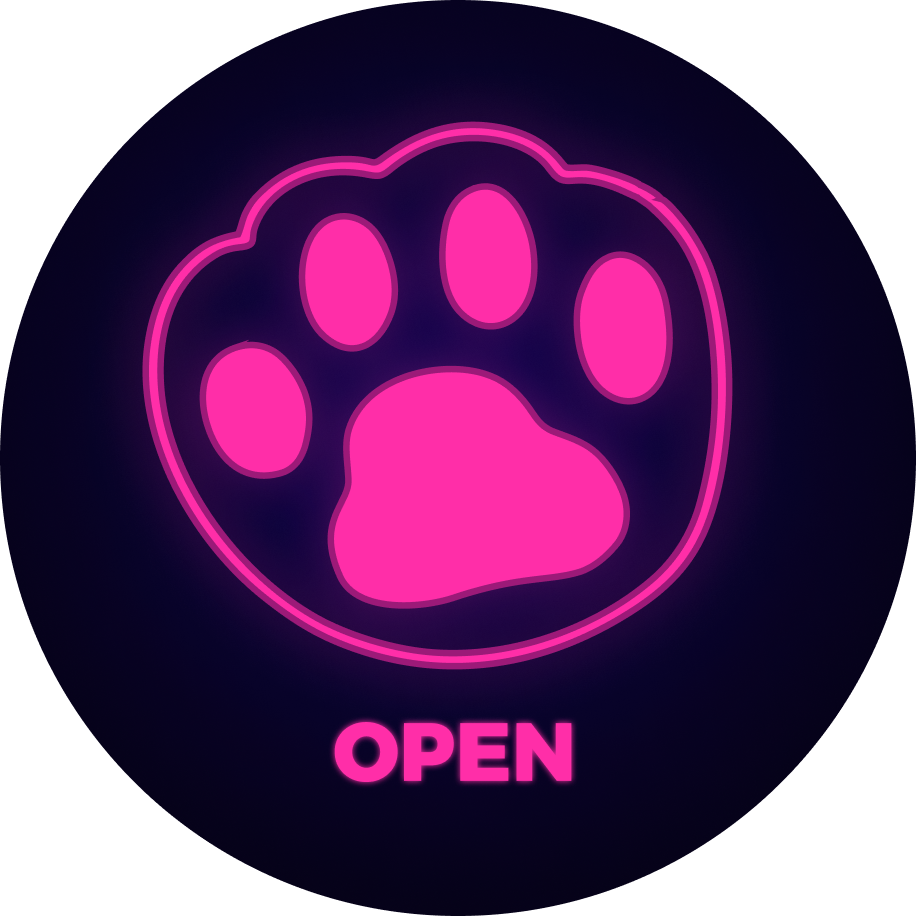
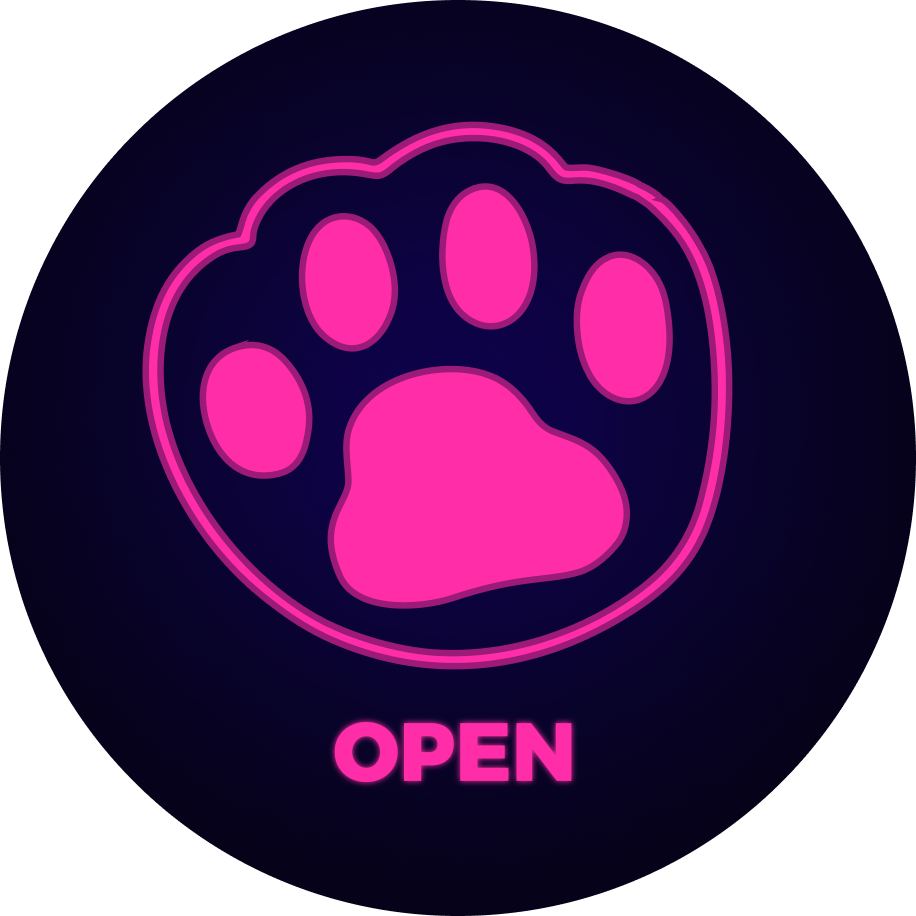
redesign button and responsiviness

Changed region(s): [[0.1528, 0.1834, 0.7031, 0.7031], [0.4891, 0.1834, 0.6725, 0.4279], [0.6725, 0.2445, 0.7948, 0.4279]]

diff --git a/pages/index.tsx b/pages/index.tsx
@@ -268,8 +268,8 @@ export default function Home() {
               <Image
                 src={AllGirls[girlNumberCount]?.destaque ? logoGold : logo}
                 alt=""
-                width={250}
-                height={100}
+                // width={200}
+                // height={200}
               />
             </div>
             <div
@@ -331,179 +331,58 @@ export default function Home() {
                     id="voltar"
                     className="w-full flex justify-start cursor-pointer"
                   >
-                    <Image
-                      onClick={() => {
-                        if (girlNumberCount === 0) {
-                          setGirlNumberCount(0);
-                        } else {
-                          let index = girlNumberCount - 1;
-                          setGirlNumberCount(index);
-                        }
-                      }}
-                      src={botaoVoltar}
-                      alt=""
-                      className="rounded-full drop-shadow-xl md:hidden"
-                      width={90}
-                      height={90}
-                    />
-
-                    <Image
-                      onClick={() => {
-                        if (girlNumberCount === 0) {
-                          setGirlNumberCount(0);
-                        } else {
-                          let index = girlNumberCount - 1;
-                          setGirlNumberCount(index);
-                        }
-                      }}
-                      src={botaoVoltar}
-                      alt=""
-                      className="rounded-full drop-shadow-xl hidden 2xl:block"
-                      width={100}
-                      height={100}
-                    />
-
-                    <Image
-                      onClick={() => {
-                        if (girlNumberCount === 0) {
-                          setGirlNumberCount(0);
-                        } else {
-                          let index = girlNumberCount - 1;
-                          setGirlNumberCount(index);
-                        }
-                      }}
-                      src={botaoVoltar}
-                      alt=""
-                      className="rounded-full drop-shadow-xl  hidden  lg:block 2xl:hidden"
-                      width={80}
-                      height={80}
-                    />
-
-                    <Image
-                      onClick={() => {
-                        if (girlNumberCount === 0) {
-                          setGirlNumberCount(0);
-                        } else {
-                          let index = girlNumberCount - 1;
-                          setGirlNumberCount(index);
-                        }
-                      }}
-                      src={botaoVoltar}
-                      alt=""
-                      className="rounded-full drop-shadow-xl  hidden  md:block lg:hidden 2xl:hidden"
-                      width={60}
-                      height={60}
-                    />
+                    <div className="relative w-24 h-24 md:w-14 md:h-14 lg:w-16 lg:h-16 xl:w-20 xl:h-20 2xl:w-28 2xl:h-28 px-5">
+                      <Image
+                        onClick={() => {
+                          if (girlNumberCount === 0) {
+                            setGirlNumberCount(0);
+                          } else {
+                            let index = girlNumberCount - 1;
+                            setGirlNumberCount(index);
+                          }
+                        }}
+                        src={botaoVoltar}
+                        alt=""
+                        className="rounded-full drop-shadow-xl "
+                        fill={true}
+                      />
+                    </div>
                   </div>
 
                   <div
                     onClick={() => handleCountClick()}
-                    className="z-20 -mt-10 sm:-mt-14 md:-mt-10 lg:-mt-14 xl:-mt-36 2xl:-mt-28 w-full flex justify-center cursor-pointer"
+                    className="z-20 -mt-10 sm:-mt-14 md:-mt-10 lg:-mt-14 xl:-mt-36 2xl:-mt-28 w-full flex justify-center items-center md:items-end cursor-pointer"
                   >
-                    {/* mobile button */}
-                    <Image
-                      src={botaoMatch}
-                      className="rounded-full drop-shadow-xl md:hidden"
-                      alt=""
-                      quality={100}
-                      width={200}
-                      height={110}
-                    />
-
-                    <Image
-                      src={botaoMatch}
-                      className="rounded-full drop-shadow-xl mt-5 hidden 2xl:block"
-                      alt=""
-                      quality={100}
-                      width={150}
-                      height={150}
-                    />
-
-                    <Image
-                      src={botaoMatch}
-                      className="rounded-full drop-shadow-xl mt-5 hidden lg:block 2xl:hidden"
-                      alt=""
-                      quality={100}
-                      width={100}
-                      height={100}
-                    />
-
-                    <Image
-                      src={botaoMatch}
-                      className="rounded-full drop-shadow-xl mt-5 hidden md:block lg:hidden 2xl:hidden"
-                      alt=""
-                      quality={100}
-                      width={90}
-                      height={90}
-                    />
+                    <div className="relative w-24 h-24 md:w-16 md:h-16 lg:w-20 lg:h-20 xl:w-32 xl:h-28 2xl:w-36 2xl:h-36 px-5">
+                      <Image
+                        src={botaoMatch}
+                        className="rounded-full drop-shadow-xl "
+                        alt=""
+                        quality={100}
+                        fill={true}
+                      />
+                    </div>
                   </div>
                   <div
                     id="x"
                     className="w-full flex justify-end cursor-pointer"
                   >
-                    <Image
-                      onClick={() => {
-                        if (girlNumberCount + 1 === AllGirls.length) {
-                          setGirlNumberCount(0);
-                        } else {
-                          let index = girlNumberCount + 1;
-                          setGirlNumberCount(index);
-                        }
-                      }}
-                      src={botaoX}
-                      alt=""
-                      className="rounded-full drop-shadow-xl md:hidden"
-                      width={90}
-                      height={90}
-                    />
-
-                    <Image
-                      onClick={() => {
-                        if (girlNumberCount + 1 === AllGirls.length) {
-                          setGirlNumberCount(0);
-                        } else {
-                          let index = girlNumberCount + 1;
-                          setGirlNumberCount(index);
-                        }
-                      }}
-                      src={botaoX}
-                      alt=""
-                      className="rounded-full drop-shadow-xl hidden 2xl:block"
-                      width={100}
-                      height={100}
-                    />
-
-                    <Image
-                      onClick={() => {
-                        if (girlNumberCount + 1 === AllGirls.length) {
-                          setGirlNumberCount(0);
-                        } else {
-                          let index = girlNumberCount + 1;
-                          setGirlNumberCount(index);
-                        }
-                      }}
-                      src={botaoX}
-                      alt=""
-                      className="rounded-full drop-shadow-xl  hidden  lg:block 2xl:hidden"
-                      width={80}
-                      height={80}
-                    />
-
-                    <Image
-                      onClick={() => {
-                        if (girlNumberCount + 1 === AllGirls.length) {
-                          setGirlNumberCount(0);
-                        } else {
-                          let index = girlNumberCount + 1;
-                          setGirlNumberCount(index);
-                        }
-                      }}
-                      src={botaoX}
-                      alt=""
-                      className="rounded-full drop-shadow-xl  hidden  md:block lg:hidden 2xl:hidden"
-                      width={60}
-                      height={60}
-                    />
+                    <div className="relative w-24 h-24 md:w-14 md:h-14 lg:w-16 lg:h-16 xl:w-20 xl:h-20 2xl:w-28 2xl:h-28 px-5">
+                      <Image
+                        onClick={() => {
+                          if (girlNumberCount + 1 === AllGirls.length) {
+                            setGirlNumberCount(0);
+                          } else {
+                            let index = girlNumberCount + 1;
+                            setGirlNumberCount(index);
+                          }
+                        }}
+                        src={botaoX}
+                        alt=""
+                        className="rounded-full drop-shadow-xl"
+                        fill={true}
+                      />
+                    </div>
                   </div>
                 </div>
               </div>
